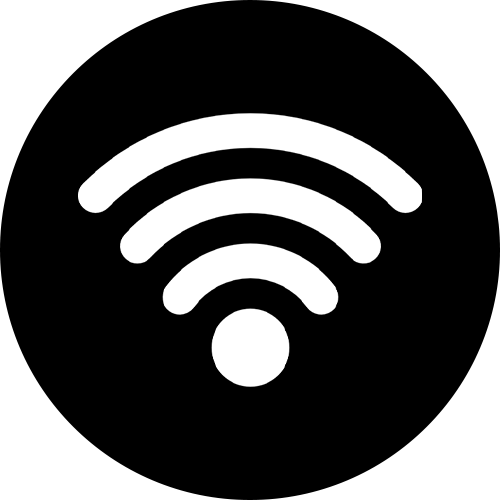
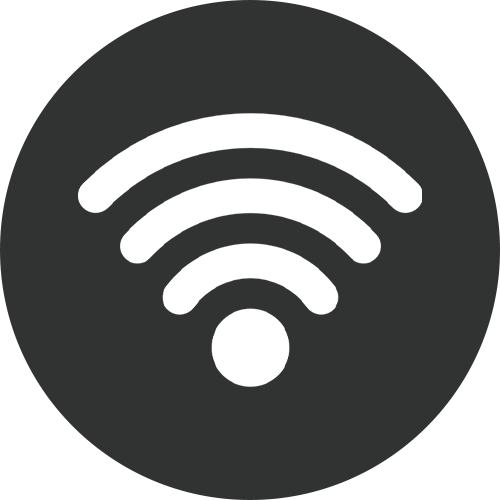
1

diff --git a/templates/index.html b/templates/index.html
@@ -9,24 +9,11 @@
 </head>
 <body>
     <div class="input_zone">
-        <form action="/qrlink_qr">
-            <div class="type">QRLINKER</div>
-            <input type="text" name="link" value="{{ linknum }}">
-            <input type="submit" value="링크 QR 생성">
-        </form>
-        <br>
         <form action="/wifi_qr">
             <div class="type">와이파이 아이디</div>
             <input type="text" name="id" value="{{ ssid }}">
             <div class="type">와이파이 비번</div>
             <input type="text" name="password" value="{{ password }}">
-            <div class="type">보안 방식</div>
-            <select name="security">
-                <option value="WPA" {% if security == 'WPA' %}selected{% endif %}>WPA/WPA2</option>
-                <option value="SAE" {% if security == 'SAE' %}selected{% endif %}>WPA3</option>
-                <option value="WEP" {% if security == 'WEP' %}selected{% endif %}>WEP</option>
-                <option value="nopass" {% if security == 'nopass' %}selected{% endif %}>없음</option>
-            </select>
             <input type="submit" value="와이파이 QR 생성">
         </form>
         <br>

diff --git a/static/style.css b/static/style.css
@@ -25,5 +25,5 @@ input[type="submit"]{
     width: 800px;
     border: 1px solid;
     height:800px;
-    
+
 }

diff --git a/qrmaker.py b/qrmaker.py
@@ -40,146 +40,105 @@ def qrlink_qr():
 
     
     return render_template('index.html' , img=f"{folder_path}\\qr.png", linknum=linknum)
+def stylize_qr(qr, center_logos):
+    """와이파이 QR과 동일하게 원형 닷 + 중앙 로고 + 모서리 마커로 꾸민 뒤 static/qr.png 로 저장한다.
+
+    center_logos: [(파일명, 중앙 비우는 원 반지름), ...] 순서대로 겹쳐 그린다.
+    """
+    # 기본 QR 코드 이미지 생성 (검정/흰색)
+    qr_img = qr.make_image(fill_color="black", back_color="white").convert("RGBA")
+    w, h = qr_img.size
+
+    # 흰 배경의 새 캔버스
+    img = Image.new("RGBA", (w, h), (255, 255, 255, 255))
+    draw = ImageDraw.Draw(img)
+
+    # 검은 픽셀을 원형 닷 이미지로 치환
+    pixels = qr_img.load()
+    box_size = 10
+    dot = Image.open(os.path.join(basedir, "static", "dot.png")).convert("RGBA")
+    dot = dot.resize((10, 10), Image.LANCZOS)
+    for x in range(0, w, box_size):
+        for y in range(0, h, box_size):
+            if pixels[x, y][:3] == (0, 0, 0):
+                img.paste(dot, (x, y), mask=dot)
+
+    # 중앙 로고 추가 (해당 영역의 닷을 지운 뒤 로고 삽입)
+    for logo_file, radius in center_logos:
+        logo_path = os.path.join(basedir, "static", logo_file)
+        if os.path.exists(logo_path):
+            logo = Image.open(logo_path).convert("RGBA")
+            logo_size = w // 5  # QR 크기의 약 1/5
+            logo = logo.resize((logo_size, logo_size), Image.LANCZOS)
+            logo_pos = ((w - logo_size) // 2, (h - logo_size) // 2)
+
+            # 로고가 들어갈 영역의 닷을 흰색으로 지움 (로고보다 작지 않게 보정)
+            center_x = w // 2
+            center_y = w // 2
+            radius = max(radius, logo_size // 2 + 3)
+            left_up = (center_x - radius, center_y - radius)
+            right_down = (center_x + radius, center_y + radius)
+            draw.ellipse([left_up, right_down], outline=None, fill=(255, 255, 255, 255))
+
+            img.paste(logo, logo_pos, mask=logo)
+
+    # 모서리 3곳에 둥근 사각형 마커
+    sqare_path = os.path.join(basedir, "static", "sqare.png")
+    if os.path.exists(sqare_path):
+        logo = Image.open(sqare_path).convert("RGBA")
+        logo_size = 70
+        logo = logo.resize((logo_size, logo_size), Image.LANCZOS)
+        for i in range(3):
+            if i == 0: logo_pos = (0, 0)
+            elif i == 1: logo_pos = ((w - logo_size), 0)
+            else: logo_pos = (0, (w - logo_size))
+
+            draw.rectangle(
+                [logo_pos, (logo_pos[0] + logo_size, logo_pos[1] + logo_size)],
+                fill=(255, 255, 255, 255)
+            )
+            img.paste(logo, logo_pos, mask=logo)
+
+    # 저장 및 고해상도 리사이즈
+    img.save("./static/qr.png")
+    re_img = Image.open("./static/qr.png").resize((1000, 1000), Image.LANCZOS)
+    re_img.save("./static/qr.png")
+
+
 @app.route('/link_qr')
 def link_qr():
     link = request.args['link']
 
     qr = qrcode.QRCode(
         version=1,
-        error_correction=qrcode.constants.ERROR_CORRECT_M,
-        box_size=15,
-        border=1,
+        error_correction=qrcode.constants.ERROR_CORRECT_H,
+        box_size=10,
+        border=0,
     )
-
     qr.add_data(link)
     qr.make(fit=True)
 
-    img = qr.make_image(fill_color="black", back_color="white")
-    
-    img.save(f"./static/qr.png")
-    qr = Image.open("./static/qr.png")
-    re_img = qr.resize((800, 800), Image.LANCZOS)  # Image.ANTIALIAS
-    re_img.save(f"./static/qr.png")
+    # 와이파이 QR과 동일한 스타일 (원형 닷 + 모서리 마커), 중앙 로고는 없음
+    stylize_qr(qr, [])
 
-    
-    return render_template('index.html' , img=f"{folder_path}\\qr.png", link = link)
+    return render_template('index.html', img=f"{folder_path}\\qr.png", link=link)
 
 @app.route('/wifi_qr')
 def wifi_qr():
     ssid = request.args['id']
     password = request.args['password']
-    security = request.args.get('security', 'WPA')
     qr = qrcode.QRCode(
         version=1,
         error_correction=qrcode.constants.ERROR_CORRECT_H,
         box_size=10,
         border=0,
     )
-    qr.add_data(f'WIFI:S:{ssid};T:{security};P:{password};H:true;;')
+    qr.add_data(f'WIFI:S:{ssid};T:WPA;P:{password};H:true;;')
     qr.make(fit=True)
 
+    stylize_qr(qr, [("phone.png", 31), ("wifi.png", 35)])
 
-
-
-
-# 기본 QR 코드 이미지 생성 (배경 투명)
-    qr_img = qr.make_image(fill_color="black", back_color="white").convert("RGBA")
-    w, h = qr_img.size
-
-    # 새로운 캔버스 생성 (투명 배경)
-    img = Image.new("RGBA", (w, h), (255, 255, 255, 255))
-    draw = ImageDraw.Draw(img)
-
-    # 원형 닷 적용
-    pixels = qr_img.load()
-    box_size = 10  # QR 닷 크기
-
-    dot_img = os.path.join(basedir, "static", "dot.png") 
-    dot_img = Image.open(dot_img).convert("RGBA")
-    dot = dot_img.resize((10,10), Image.LANCZOS)
-    for x in range(0, w, box_size):
-        for y in range(0, h, box_size):
-            if pixels[x, y][:3] == (0, 0, 0): 
-                img.paste(dot, (x,y), mask=dot)# 검은색 픽셀일 경우 원형 그리기
-                # draw.ellipse((x, y, x + box_size, y + box_size), fill="black")
-
-    # 중앙 로고 추가
-    logo_path = os.path.join(basedir, "static", "phone.png")  # 로고 파일 경로
-    if os.path.exists(logo_path):
-        logo = Image.open(logo_path).convert("RGBA")
-        logo_size = w // 5  # QR 코드 크기의 약 1/5 크기로 조정
-        logo = logo.resize((logo_size, logo_size), Image.LANCZOS)  # 고품질 리사이징
-
-        # 로고 삽입 위치 계산
-        logo_pos = ((w - logo_size) // 2, (h - logo_size) // 2)
-
-        # 🔥 로고가 들어갈 부분의 QR 코드 도트 삭제 (로고 영역을 투명하게 만듦)
-        center_x = w // 2    # 이미지 너비의 절반
-        center_y = w // 2   # 이미지 높이의 절반
-        radius = 31
-        left_up = (center_x - radius, center_y - radius)
-        right_down = (center_x + radius, center_y + radius)
-        draw.ellipse([left_up, right_down], outline=None, fill=(255, 255, 255, 255))
-
-        # 로고 삽입 (투명 배경 유지하며 삽입)
-        img.paste(logo, logo_pos, mask=logo)
-
-    # 중앙 로고 추가
-    logo_path = os.path.join(basedir, "static", "wifi.png")  # 로고 파일 경로
-    if os.path.exists(logo_path):
-        logo = Image.open(logo_path).convert("RGBA")
-        logo_size = w // 5  # QR 코드 크기의 약 1/5 크기로 조정
-        logo = logo.resize((logo_size, logo_size), Image.LANCZOS)  # 고품질 리사이징
-
-        # 로고 삽입 위치 계산
-        logo_pos = ((w - logo_size) // 2, (h - logo_size) // 2)
-
-        # 🔥 로고가 들어갈 부분의 QR 코드 도트 삭제 (로고 영역을 투명하게 만듦)
-        center_x = w // 2    # 이미지 너비의 절반
-        center_y = w // 2   # 이미지 높이의 절반
-        radius = 35 
-        left_up = (center_x - radius, center_y - radius)
-        right_down = (center_x + radius, center_y + radius)
-        draw.ellipse([left_up, right_down], outline=None, fill=(255, 255, 255, 255))
-
-        # 로고 삽입 (투명 배경 유지하며 삽입)
-        img.paste(logo, logo_pos, mask=logo)
-
-
-
-    logo_path = os.path.join(basedir, "static", "sqare.png")  # 로고 파일 경로
-    if os.path.exists(logo_path):
-        logo = Image.open(logo_path).convert("RGBA")
-        logo_size = 70  # QR 코드 크기의 약 1/5 크기로 조정
-        logo = logo.resize((logo_size, logo_size), Image.LANCZOS)  # 고품질 리사이징
-
-        # 로고 삽입 위치 계산
-        for i in range(3):
-            if i == 0: logo_pos = (0, 0)
-            elif i == 1:logo_pos = ((w - logo_size), 0)
-            else:logo_pos = ( 0, (w - logo_size))
-
-            # 🔥 로고가 들어갈 부분의 QR 코드 도트 삭제 (로고 영역을 투명하게 만듦)
-            draw.rectangle(
-                [logo_pos, (logo_pos[0] + logo_size, logo_pos[1] + logo_size)],
-                fill=(255, 255, 255, 255)  # 투명하게 처리
-            )
-
-            # 로고 삽입 (투명 배경 유지하며 삽입)
-            img.paste(logo, logo_pos, mask=logo)
-
-
-
-
-
-
-    
-    img.save(f"./static/qr.png")
-    qr = Image.open("./static/qr.png")
-    re_img = qr.resize((1000, 1000), Image.LANCZOS)  # Image.ANTIALIAS
-    re_img.save(f"./static/qr.png")
-
-    return render_template('index.html' , img=f"{folder_path}\\qr.png", ssid = ssid, password = password, security=security)
+    return render_template('index.html', img=f"{folder_path}\\qr.png", ssid=ssid, password=password)
 
 
 webview.create_window('QR-Generator', app, width=1500, height=1000, min_size=[1400,1000], text_select=True)
